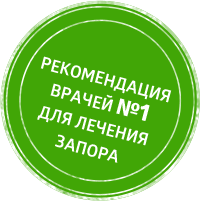
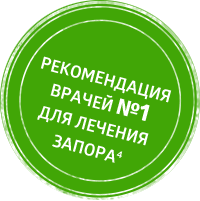
fix

diff --git a/main.html b/main.html
@@ -386,10 +386,7 @@
                 <div id="products-scene" class="row products__inner">
                     <div class="products__images">
                         <img src="local/templates/main/static/images/home/products.png" width="800" height="566" alt="">
-                        <div class="products__recommend">
-                            <div class="products__recommend_text">Рекомендация врачей №1<br /> для лечения запора</div>
-                            <div class="products__recommend_text">Если каждый день никак –<br /> принимайте Дюфалак®</div>
-                        </div>
+                        <div class="products__recommend"></div>
                     </div>
                     <div class="products__btn-wrap"><a href="/o-preparate/istoriya-sozdaniya/" class="products__btn">Подробнее о препаратe</a></div>
                 </div>
@@ -409,7 +406,7 @@
                                 <div class="why-item__text">
                                     <ul>
                                         <li>Лечит запор на всем протяжении кишечника</li>
-                                        <li>Восстанавливает правильную работу кишечника и&nbsp;обеспечивает ежедневный стул</li>
+                                        <li>Восстанавливает правильную работу кишечника и&nbsp;обеспечивает ежедневный стул<sup>2</sup></li>
                                     </ul>
                                 </div>
                             </div>
@@ -422,7 +419,7 @@
                                 <div class="why-item__title">Удобство</div>
                                 <div class="why-item__text">
                                     <ul>
-                                        <li>Приём 1 раз в день</li>
+                                        <li>Приём 1 раз в день<sup>2</sup></li>
                                         <li>Одноразовые пакетики с готовым сиропом удобно взять с собой</li>
                                         <li>Подходит для всей семьи</li>
                                     </ul>
@@ -437,9 +434,9 @@
                                 <div class="why-item__title">Безопасность</div>
                                 <div class="why-item__text">
                                     <ul>
-                                        <li>Разрешён беременным, кормящим мамам и детям с&nbsp;рождения</li>
-                                        <li>Содержит ТОЛЬКО лактулозу и&nbsp;очищенную воду</li>
-                                        <li>Не раздражает кишечник – можно принимать так долго, как это необходимо</li>
+                                        <li>Разрешён беременным, кормящим мамам и детям с&nbsp;рождения<sup>2</sup></li>
+                                        <li>Содержит ТОЛЬКО лактулозу и&nbsp;очищенную воду<sup>2</sup></li>
+                                        <li>Не раздражает кишечник – можно принимать так долго, как это необходимо<sup>3</sup></li>
                                     </ul>
                                 </div>
                             </div>
@@ -460,7 +457,7 @@
     </section>
     <div class="footnote">
         <div class="container">1.&nbsp;Хронобиология и&nbsp;хрономедицина: Руководство&nbsp;/ Под ред. С.&nbsp;И.&nbsp;Рапопорта, В.&nbsp;А. Фролова, Л.&nbsp;Г.&nbsp;Хетагуровой. Москва. ООО «Медицинское информационное агенство», 2012. —&nbsp;480&nbsp;с.: ил. 2.&nbsp;Инструкция по&nbsp;медицинскому применению препарата Дюфалак<sup>®</sup> от&nbsp;14.09.15 3.&nbsp;I.&nbsp;Boisson. Traitement de&nbsp;la&nbsp;constipation chronique par Duphalac<sup>®</sup> Tolerance a&nbsp;long terme. M.&nbsp;C.&nbsp;D.-1995-24-№&nbsp;8 4.&nbsp;Логинов А. С, Парфенов А.&nbsp;И. Болезни кишечника. Руководство для врачей. Москва, «Медицина», 2000 5.&nbsp;Ройтберг Г.&nbsp;Е. Струтынский А.&nbsp;В. Внутренние болезни. Система органов пищеварения: учеб. пособие. 3-е изд. —&nbsp;М.: МЕДпресс-информ, 2014. —&nbsp;560&nbsp;с. 6.&nbsp;Хавкин А.&nbsp;И. Микрофлора пищеварительного тракта. —&nbsp;М: Фонд социальной педиатрии, 2006, 416&nbsp;с. 7.&nbsp;Белоусова Е.&nbsp;А. Лечение запора у&nbsp;пожилых пациентов. Клиническая геронтология. —&nbsp;2006, №&nbsp;1, с. 58–65. 8.&nbsp;Лебедев&nbsp;В.&nbsp;А. и&nbsp;соавт. Запоры у&nbsp;беременных: пути решения проблемы. Трудный пациент №&nbsp;8-9, том 10, 2012 9.&nbsp;«Национальная программа оптимизации вскармливания детей первого года жизни в&nbsp;РФ», утверждена на&nbsp;16&nbsp;Съезде педиатров России, Москва, 2009,стр.41-42 10.&nbsp;Детская гастроэнтерология: Руководство для врачей&nbsp;/ под ред. проф. Н.&nbsp;П.&nbsp;Шабалова. —&nbsp;2-е изд., перепаб. и&nbsp;доп. —&nbsp;М.: МЕДпресс-информ, 2013. —&nbsp;760&nbsp;с. :ил.
-            <p>Patent 2811450&nbsp;USA, «Laxative composition and method of&nbsp;use».</p>
+            <p>*Patent 2811450&nbsp;USA, «Laxative composition and method of&nbsp;use».</p>
         </div>
     </div>
 </div><!-- CONVERSION TAG -->
@@ -479,25 +476,26 @@
         <div class="container footer-content__inner">
             <div class="row">
                 <div class="col-md-4"><a href="http://abbott-russia.ru" target="_blank">
-<svg class="footer-logo">
-    <use xlink:href="local/templates/main/static/images/icons/main.svg#icon-abbot"></use>
-</svg>
+    <img src="local/templates/main/static/images/abbot-logo-footer.png" alt="" class="footer-logo" width="120" height="30" />
 </a>
 </div>
                 <div class="col-xs-24 col-md-20">
-                   <!--googleoff: all--><!--noindex--> <div class="footer-legal" style="text-transform:uppercase;">                        Имеются противопоказания. Перед применением внимательно прочитайте инструкцию или прокунсультируйтесь у специалиста
+                   <!--googleoff: all--><!--noindex--> <div class="footer-legal hidden-xs-down" style="text-transform:uppercase;">                        Имеются противопоказания. Перед применением внимательно прочитайте инструкцию или прокунсультируйтесь у специалиста
                         <img src="local/templates/main/static/images/warning.png" width="2800" height="172" alt="Имеются противопоказания. Перед применением внимательно прочитайте инструкцию или прокунсультируйтесь у специалиста" class="hidden-xs-down">
-                        <img src="local/templates/main/static/images/warning-xs.png" width="915" height="180" alt="Имеются противопоказания. Перед применением внимательно прочитайте инструкцию или прокунсультируйтесь у специалиста" class="hidden-sm-up">
                     </div><!--/noindex--><!--googleon: all-->
 
                 </div>
             </div>
             <div class="row">
                 <div class="col-xs-24 col-md-15 offset-md-4">
-                    <div class="footer-terms"><a rel='nofollow' href="http://abbott-russia.ru/privacy_policy/" class="link-hidden">Условия он-лайн использования</a> | <a rel='nofollow' href="http://abbott-russia.ru/privacy_policy/terms_of_use/" class="link-hidden">Политика по персональным данным</a> | <a rel='nofollow' href="http://abbott-russia.ru/contacts/" class="link-hidden">Обратная связь</a></div><div class="footer-copyright">ООО «Эбботт Лабораториз» 125171, Москва, Ленинградское шоссе, 16а, стр.1, 6 этаж<br />Тел. +7 (495) 258 42 80; факс: +7 (495) 258 42 81<br /><br /><a href="#">Обратная связь</a></div>
+                    <div class="footer-terms"><a rel='nofollow' href="http://abbott-russia.ru/privacy_policy/" class="link-hidden">Условия он-лайн использования</a> | <a rel='nofollow' href="http://abbott-russia.ru/privacy_policy/terms_of_use/" class="link-hidden">Политика по персональным данным</a> | <a rel='nofollow' href="http://abbott-russia.ru/contacts/" class="link-hidden">Обратная связь</a></div><div class="footer-copyright">ООО «Эбботт Лабораториз» 125171, Москва, Ленинградское шоссе, 16а, стр.1, 6 этаж<br />Тел. +7 (495) 258 42 80; факс: +7 (495) 258 42 81<br class="hidden-xs-down" /><br class="hidden-xs-down" /><a href="#" class="hidden-xs-down">Обратная связь</a></div>
                 </div>
+                <div class="col-xs-24 col-md-20">
+                   <!--googleoff: all--><!--noindex--> <div class="footer-legal" style="text-transform:uppercase;">                        Имеются противопоказания. Перед применением внимательно прочитайте инструкцию или прокунсультируйтесь у специалиста
+                        <img src="local/templates/main/static/images/warning-xs.png" width="915" height="180" alt="Имеются противопоказания. Перед применением внимательно прочитайте инструкцию или прокунсультируйтесь у специалиста" class="hidden-sm-up">
+                    </div><!--/noindex--><!--googleon: all-->
                 <div class="col-md-5">
-                    <div class="footer-rudfl">RUDFL160853(1)a от 25.07.2017</div>
+                    <div class="footer-rudfl">RUDFL160853(1)a<br class="hidden-sm-up" /> от 25.07.2017</div>
                 </div>
             </div>
         </div>

diff --git a/local/templates/main/new.css b/local/templates/main/new.css
@@ -52,17 +52,18 @@
 
 .everyday__title {font-size:3rem; line-height:1em; margin:0 0 76px 0}
 
-.why__content {z-index:21; margin-top:-19px}
-.why-item__title {font-size:1.75rem; line-height:2em}
-.why-item__text {font-size:1.5rem; line-height:1.25em}
+.why__content {z-index:21; margin-top:-39px}
+.why-item__title {font-size:1.5rem; line-height:2em}
+.why-item__text {font-size:1.25rem; line-height:1.25em}
+.why-item__text sup {font-size:12px; top:-10px; position:relative}
 .why-item__icon {width:65px; height:65px}
 .why-item--anim-1 .why-item__icon {width:76px; height:74px}
 .why-item--anim-3 .why-item__icon {width:77px; height:77px}
 .why__outer {overflow:visible}
 .why-item__inner {padding-left:95px}
 .why__list {text-align:left}
-.why-item--anim-1 {top:-400px; left:-70px; margin-bottom:-100px}
-.why-item--anim-3 {top:-400px; left:40px; margin-bottom:-100px}
+.why-item--anim-1 {top:-350px; left:-70px; margin-bottom:-100px}
+.why-item--anim-3 {top:-350px; left:40px; margin-bottom:-100px}
 .why-item__text ul {list-style:none}
 .why-item__text li {position:relative}
 .why-item__text li:before {content:""; display:block; width:11px; height:8px; position:absolute; left:-23px; top:5px; background:url(static/images/home/li.png)}
@@ -85,12 +86,14 @@
     .why-item--anim-1 {top:auto; left:auto}
     .why-item--anim-3 {top:auto; left:auto}
     .products__clouds {display:none}
-    .why-item__title {font-size:24px; line-height:24px; text-transform:none}
-    .why-item__text {font-size:16px; line-height:22px}
+    .why-item__title {font-size:21px; line-height:23px; text-transform:none}
+    .why-item__text {font-size:21px; line-height:23px}
     .why-item__icon {width:45px; height:45px}
     .why-item--anim-1 .why-item__icon {width:45px; height:45px}
     .why-item--anim-3 .why-item__icon {width:45px; height:45px}
     .why-item__inner {padding-left:55px}
+    .why-item--anim-1 {top:auto; margin-bottom:0}
+    .why-item--anim-3 {top:-auto; margin-bottom:0}
     .products {padding-top:30px}
     .everyday-icons__item--eat {transform:scale(1)}
     .everyday-icons__item--paper {transform:scale(1)}
@@ -98,8 +101,14 @@
     .everyday-icons__item--bed {transform:scale(1)}
     .everyday__title {font-size:24px; line-height:24px}
     .everyday__text {font-size:14px; line-height:16px}
-    .why__subtitle {text-transform:none; padding-top:105px}
+    .why__subtitle {text-transform:none; padding-top:71px; font-size:24px; line-height:30px}
+    .why__subtitle:after {content:""; display:block; margin:23px auto -40px auto; width:200px; height:201px; background:url(static/images/home/products-recommend.png)}
+    .products__btn {text-transform:none; width:auto; display:block; height:44px; padding:0; box-sizing:border-box; text-align:center; font-size:20px; line-height:44px; padding:0; position:relative; z-index:999}
+    .products__btn-wrap {padding-top:0; margin:0 20px 40px 20px}
     .products__images {margin-left:-75px; margin-right:-75px}
     .products__recommend {position:relative; text-align:center}
     .products__recommend_text {display:block; font-size:1.25rem; line-height:1em; margin:1em 0; color:#fff; font-weight:bold;}
+    .footer-rudfl {font-size:11px; line-height:15px; top:5px; position:relative}
 }
+
+.footer-copyright a {color:#8dc457; text-decoration:none}
